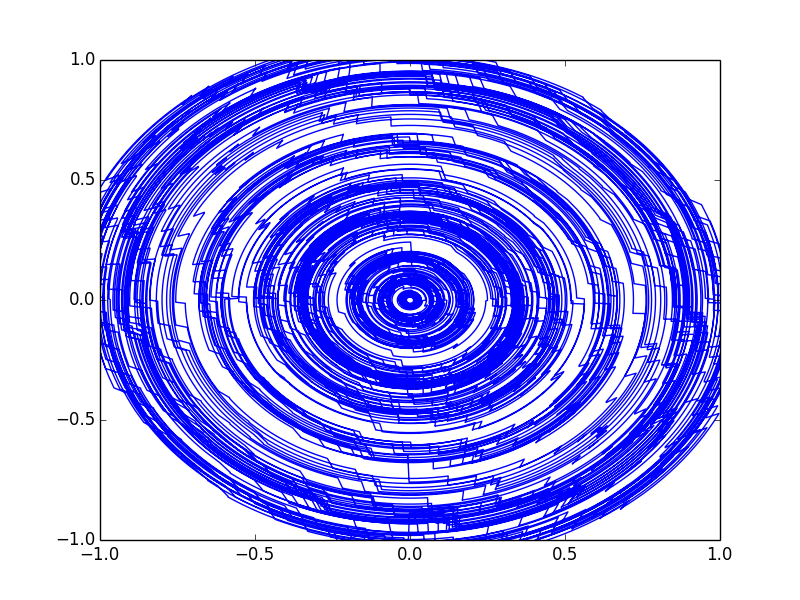
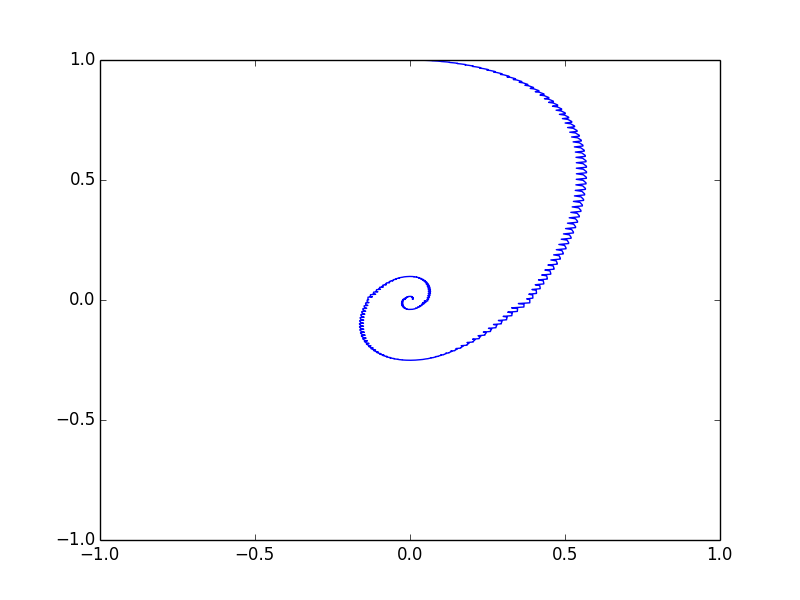
Fixed MARL idea, working beautifully

diff --git a/Solvers/DriftABE_Exact.py b/Solvers/DriftABE_Exact.py
@@ -10,7 +10,7 @@ class DriftABE_Exact(Solver):
         
         self.F = Domain.F
 
-        self.F_exact = Domain.F_exact
+        self.F_curl = Domain.F_curl
 
         self.Proj = P
 
@@ -28,7 +28,7 @@ class DriftABE_Exact(Solver):
 
         self.Mod = 10 #(100)
 
-        self.Agg = 100 #(10)
+        self.Agg = 10 #(10)
 
     def InitTempStorage(self,Start,Domain,Options):
 
@@ -52,12 +52,14 @@ class DriftABE_Exact(Solver):
         # Initialize Storage
         TempData = {}
 
+        # Choose Agent for Curl Component
+        agent_i = 0#np.random.randint(Data.shape[0])
+
         if (Record.thisPermIndex>=self.Mod) and (Record.thisPermIndex%self.Mod == 0):
 
             # Compute Curl Component for Agent i
-            agent_i = 0#np.random.randint(Data.shape[0])
             F = Record.TempStorage[self.F][-1]
-            F[agent_i] = self.F_exact(Data)[agent_i]
+            F[agent_i] = F[agent_i] - self.Agg*self.F_curl(Data)[agent_i]
 
             # Perform Euler Update
             NewData = self.Proj.P(Data,Step,F)

diff --git a/Solvers/DriftABE_BothExact.py b/Solvers/DriftABE_BothExact.py
@@ -10,7 +10,7 @@ class DriftABE_BothExact(Solver):
         
         self.F = Domain.F
 
-        self.F_exact = Domain.F_exact
+        self.F_curl = Domain.F_curl
 
         self.Proj = P
 
@@ -26,7 +26,7 @@ class DriftABE_BothExact(Solver):
 
         self.MaxStep = MaxStep
 
-        self.Mod = 100 #(100)
+        self.Mod = 10 #(100)
 
         self.Agg = 10 #(10)
 
@@ -55,7 +55,7 @@ class DriftABE_BothExact(Solver):
         if (Record.thisPermIndex>=self.Mod) and (Record.thisPermIndex%self.Mod == 0):
 
             # Perform Euler Update With Curl for All Agents
-            F = self.F_exact(Data)
+            F = self.F(Data)-self.Agg*self.F_curl(Data)
             NewData = self.Proj.P(Data,Step,F)
 
             # Record Projections

diff --git a/MARL_Demo.py b/MARL_Demo.py
@@ -42,9 +42,9 @@ def Demo():
     # Method = CashKarp(Domain=Domain,P=RPlusProjection(),Delta0=1e-6)
     # Method = GABE(Domain=Domain,P=RPlusProjection(),Delta0=1e-5)
     # Method = Drift(Domain=Domain)
-    Method = DriftABE(Domain=Domain,P=IdentityProjection(),Delta0=1e-5) #(1e-5)
+    # Method = DriftABE(Domain=Domain,P=IdentityProjection(),Delta0=1e-5) #(1e-5)
     # Method = DriftABE_Exact(Domain=Domain,P=IdentityProjection(),Delta0=1e-5)
-    # Method = DriftABE_BothExact(Domain=Domain,P=IdentityProjection(),Delta0=1e-5)
+    Method = DriftABE_BothExact(Domain=Domain,P=IdentityProjection(),Delta0=1e-5)
 
     # Initialize Starting Point
     Start = np.array([0,1])

diff --git a/Solvers/DriftABE.py b/Solvers/DriftABE.py
@@ -24,7 +24,7 @@ class DriftABE(Solver):
 
         self.MaxStep = MaxStep
 
-        self.Mod = 100 #(100)
+        self.Mod = 10 #(100)
 
         self.Agg = 10 #(10)
 
@@ -73,7 +73,7 @@ class DriftABE(Solver):
             G_km2 = self.TempStorage['F_2norm'][-3]
             x_km1 = self.TempStorage['Data'][-2][agent_i]
             x_km2 = self.TempStorage['Data'][-3][agent_i]
-            dG_dxi = (G_k-2*G_km1+G_km2)/(x_km1-x_km2)
+            dG_dxi = (-G_k+2*G_km1-G_km2)/(x_km1-x_km2)
 
             # Compute Adjusted F
             F = Record.TempStorage[self.F][-1]

diff --git a/Domains/DummyMARL2.py b/Domains/DummyMARL2.py
@@ -17,10 +17,10 @@ class MARL2(Domain):
         F[1] = -Data[0]
         return F
 
-    def F_exact(self,Data):
+    def F_curl(self,Data):
         F = np.zeros(Data.shape)
-        F[0] = Data[1]   -Data[0]
-        F[1] = -Data[0]  -Data[1]
+        F[0] = Data[0]
+        F[1] = Data[1]
         return F
 
     def Origin_Error(self,Data):
